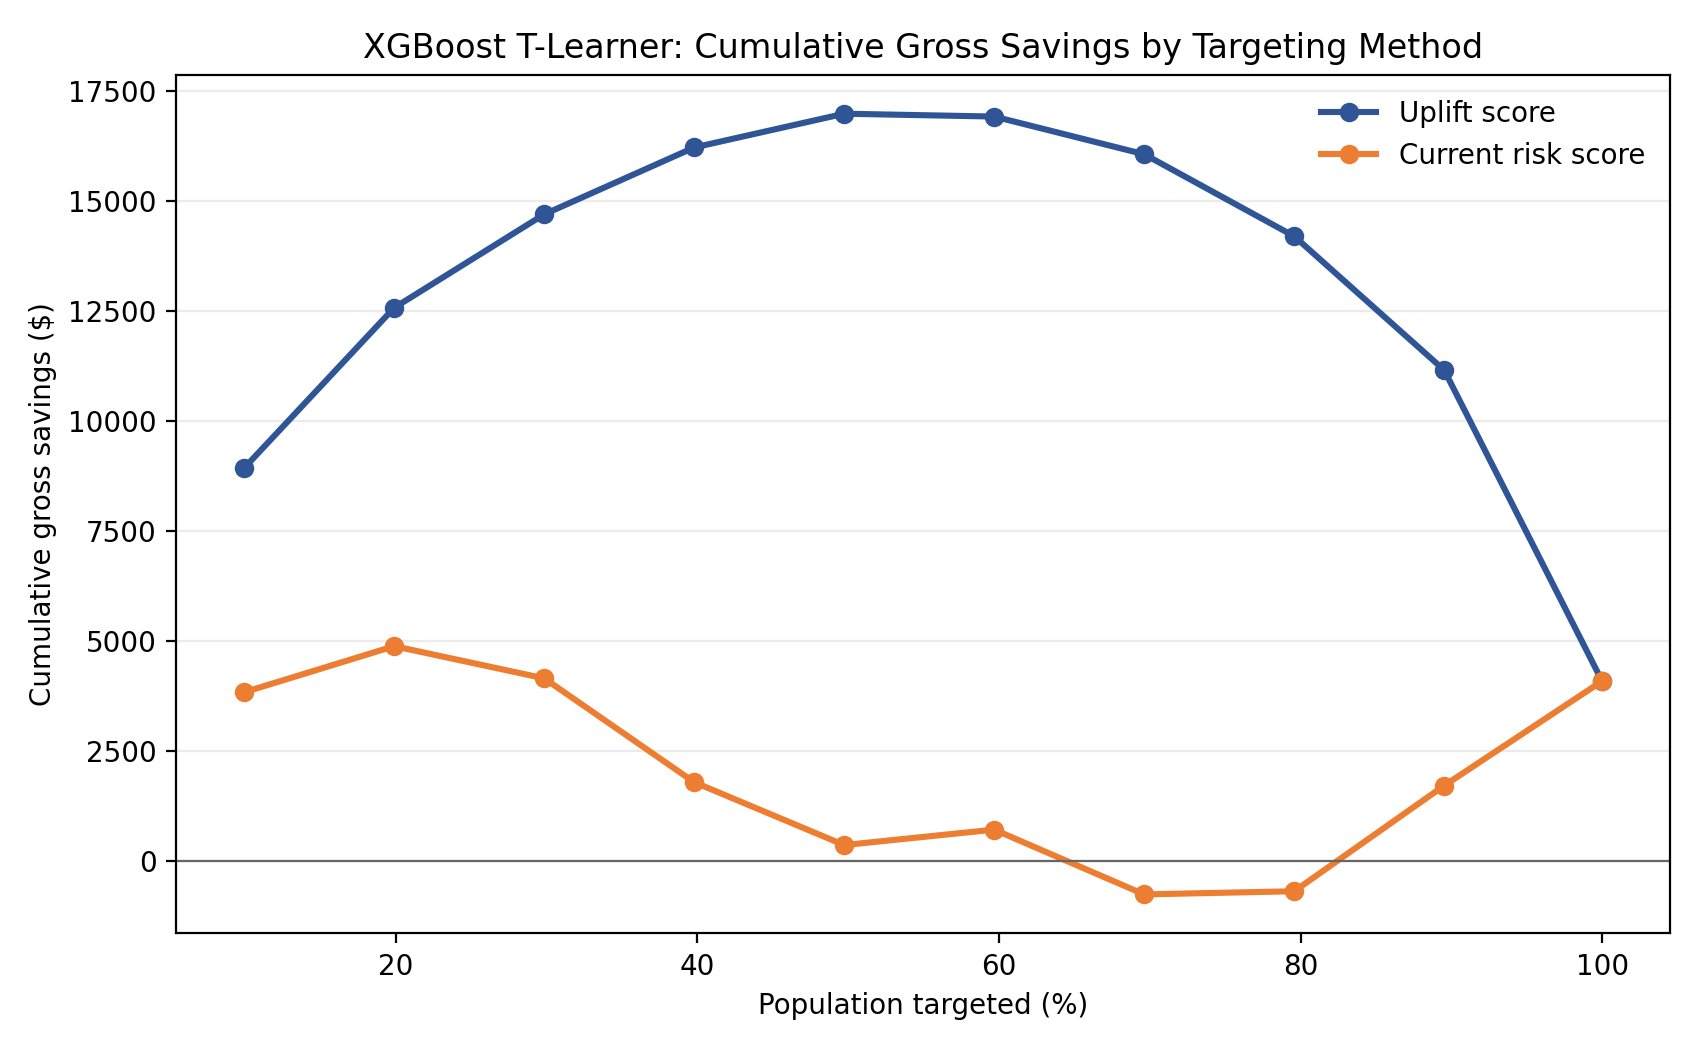
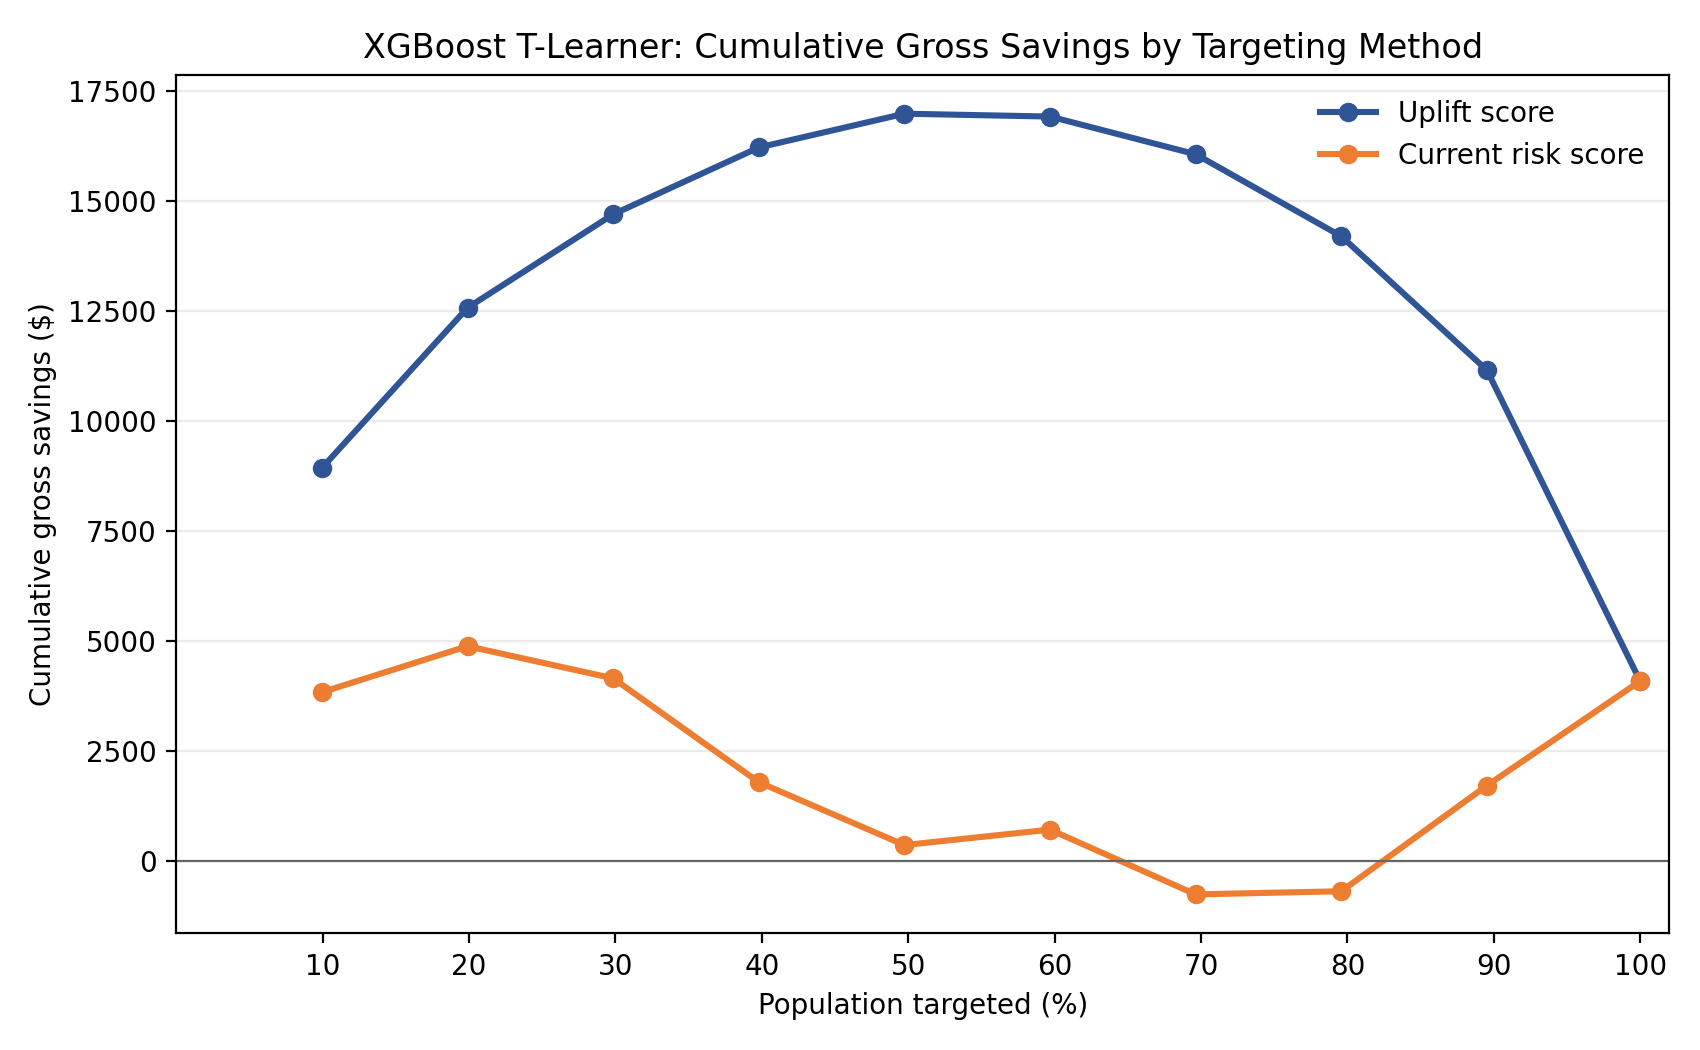
Extend Oregon targeting charts to full population

diff --git a/Code/generate_oregon_uplift_report.py b/Code/generate_oregon_uplift_report.py
@@ -94,6 +94,63 @@ def side_by_side(left_path: str, left_alt: str, right_path: str, right_alt: str)
     )
 
 
+def save_targeting_charts(
+    cumulative: pd.DataFrame,
+    advantage: pd.DataFrame,
+    out_dir: Path,
+    learner_label: str,
+) -> None:
+    """Save full-population cumulative and sign-colored marginal charts."""
+    line_colors = {"Uplift score": "#2F5597", "Current risk score": "#ED7D31"}
+    fig, ax = plt.subplots(figsize=(8.5, 5.25))
+    for approach, group in cumulative.groupby("targeting_approach", sort=False):
+        group = group.sort_values("through_decile")
+        ax.plot(
+            group["population_fraction_targeted"] * 100,
+            group["cumulative_gross_savings"],
+            marker="o",
+            linewidth=2.2,
+            label=approach,
+            color=line_colors[approach],
+        )
+    ax.axhline(0, color="#666666", linewidth=0.8)
+    ax.set_xlim(0, 102)
+    ax.set_xticks(range(10, 101, 10))
+    ax.set_title(f"XGBoost {learner_label}: Cumulative Gross Savings by Targeting Method")
+    ax.set_xlabel("Population targeted (%)")
+    ax.set_ylabel("Cumulative gross savings ($)")
+    ax.grid(axis="y", alpha=0.25)
+    ax.legend(frameon=False)
+    fig.tight_layout()
+    fig.savefig(out_dir / "dashboard_cumulative_gross_savings_targeting.png", dpi=200)
+    plt.close(fig)
+
+    chart_advantage = advantage.copy()
+    chart_advantage["decile"] = pd.to_numeric(
+        chart_advantage["decile"], errors="raise"
+    ).astype(int)
+    bar_colors = np.where(
+        chart_advantage["marginal_advantage"] < 0,
+        "#C00000",
+        "#4C78A8",
+    )
+    fig, ax = plt.subplots(figsize=(8.5, 5.25))
+    ax.bar(
+        chart_advantage["decile"],
+        chart_advantage["marginal_advantage"],
+        color=bar_colors,
+    )
+    ax.axhline(0, color="#666666", linewidth=0.8)
+    ax.set_title(f"XGBoost {learner_label}: Marginal Gross Savings Advantage vs Current Risk")
+    ax.set_xlabel("Targeting decile")
+    ax.set_ylabel("Marginal gross savings advantage ($)")
+    ax.set_xticks(range(1, 11))
+    ax.grid(axis="y", alpha=0.25)
+    fig.tight_layout()
+    fig.savefig(out_dir / "dashboard_marginal_gross_savings_advantage_vs_current_risk.png", dpi=200)
+    plt.close(fig)
+
+
 def make_tlearner_targeting_artifacts(scored: pd.DataFrame) -> pd.DataFrame:
     """Reproduce the Funds cumulative/marginal targeting calculation for T scores."""
     out_dir = OUTPUT_ROOT / "T-Learner" / "XGBoost"
@@ -159,38 +216,7 @@ def make_tlearner_targeting_artifacts(scored: pd.DataFrame) -> pd.DataFrame:
     top50 = cumulative[cumulative["through_decile"].eq(5)].copy()
     top50.to_csv(out_dir / "cumulative_gross_savings_summary_top50.csv", index=False)
 
-    colors = {"Uplift score": "#2F5597", "Current risk score": "#ED7D31"}
-    fig, ax = plt.subplots(figsize=(8.5, 5.25))
-    for approach, group in cumulative.groupby("targeting_approach", sort=False):
-        ax.plot(
-            group["population_fraction_targeted"] * 100,
-            group["cumulative_gross_savings"],
-            marker="o",
-            linewidth=2.2,
-            label=approach,
-            color=colors[approach],
-        )
-    ax.axhline(0, color="#666666", linewidth=0.8)
-    ax.set_title("XGBoost T-Learner: Cumulative Gross Savings by Targeting Method")
-    ax.set_xlabel("Population targeted (%)")
-    ax.set_ylabel("Cumulative gross savings ($)")
-    ax.grid(axis="y", alpha=0.25)
-    ax.legend(frameon=False)
-    fig.tight_layout()
-    fig.savefig(out_dir / "dashboard_cumulative_gross_savings_targeting.png", dpi=200)
-    plt.close(fig)
-
-    fig, ax = plt.subplots(figsize=(8.5, 5.25))
-    ax.bar(advantage["decile"], advantage["marginal_advantage"], color="#2F5597")
-    ax.axhline(0, color="#666666", linewidth=0.8)
-    ax.set_title("XGBoost T-Learner: Marginal Savings Advantage vs Current Risk")
-    ax.set_xlabel("Targeting decile")
-    ax.set_ylabel("Uplift minus risk marginal gross savings ($)")
-    ax.set_xticks(range(1, 11))
-    ax.grid(axis="y", alpha=0.25)
-    fig.tight_layout()
-    fig.savefig(out_dir / "dashboard_marginal_gross_savings_advantage_vs_current_risk.png", dpi=200)
-    plt.close(fig)
+    save_targeting_charts(cumulative, advantage, out_dir, "T-Learner")
 
     return cumulative
 
@@ -221,7 +247,14 @@ def main() -> None:
     consistency = load("X-Learner/xlearner_vs_tlearner_consistency_summary.csv")
     x_test = load("X-Learner/XGBoost/xlearner_scored_test_output.csv")
     x_cumulative = load("X-Learner/XGBoost/cumulative_gross_savings_by_targeting.csv")
+    x_advantage = load("X-Learner/XGBoost/marginal_gross_savings_advantage_vs_current_risk.csv")
     t_cumulative = make_tlearner_targeting_artifacts(x_test)
+    save_targeting_charts(
+        x_cumulative,
+        x_advantage,
+        OUTPUT_ROOT / "X-Learner" / "XGBoost",
+        "X-Learner",
+    )
 
     xgb_eval = evaluation[evaluation["model"].eq("XGBoost")].iloc[0]
     glm_eval = evaluation[evaluation["model"].eq("GLMNET")].iloc[0]

diff --git a/Code/build_oregon_uplift_notebook.py b/Code/build_oregon_uplift_notebook.py
@@ -119,6 +119,45 @@ cell8 = cell8.replace(
 )
 set_cell(notebook, 8, cell8)
 
+# Keep both X-Learner business-value charts consistent with the Oregon report:
+# show the full 10%-100% targeting range and use red for negative marginal
+# advantage bars.
+cell97 = "".join(notebook["cells"][97]["source"])
+xlearner_cumulative_filter = (
+    "    chart_df = cumulative_df[cumulative_df['population_fraction_targeted'] <= 0.51]\n"
+)
+if xlearner_cumulative_filter not in cell97:
+    raise RuntimeError("Could not locate the X-Learner cumulative chart filter in cell 97.")
+cell97 = cell97.replace(
+    xlearner_cumulative_filter,
+    "    chart_df = cumulative_df.copy()\n",
+    1,
+)
+
+xlearner_bar_marker = """        fig, ax = plt.subplots(figsize=(8.5, 5.25))
+        ax.bar(
+            advantage_df['decile'].astype(str),
+            advantage_df['marginal_advantage'],
+            color='#4c78a8',
+        )
+"""
+xlearner_bar_replacement = """        fig, ax = plt.subplots(figsize=(8.5, 5.25))
+        bar_colors = np.where(
+            advantage_df['marginal_advantage'] < 0,
+            '#C00000',
+            '#4C78A8',
+        )
+        ax.bar(
+            advantage_df['decile'].astype(str),
+            advantage_df['marginal_advantage'],
+            color=bar_colors,
+        )
+"""
+if xlearner_bar_marker not in cell97:
+    raise RuntimeError("Could not locate the X-Learner marginal chart styling in cell 97.")
+cell97 = cell97.replace(xlearner_bar_marker, xlearner_bar_replacement, 1)
+set_cell(notebook, 97, cell97)
+
 set_cell(
     notebook,
     6,
